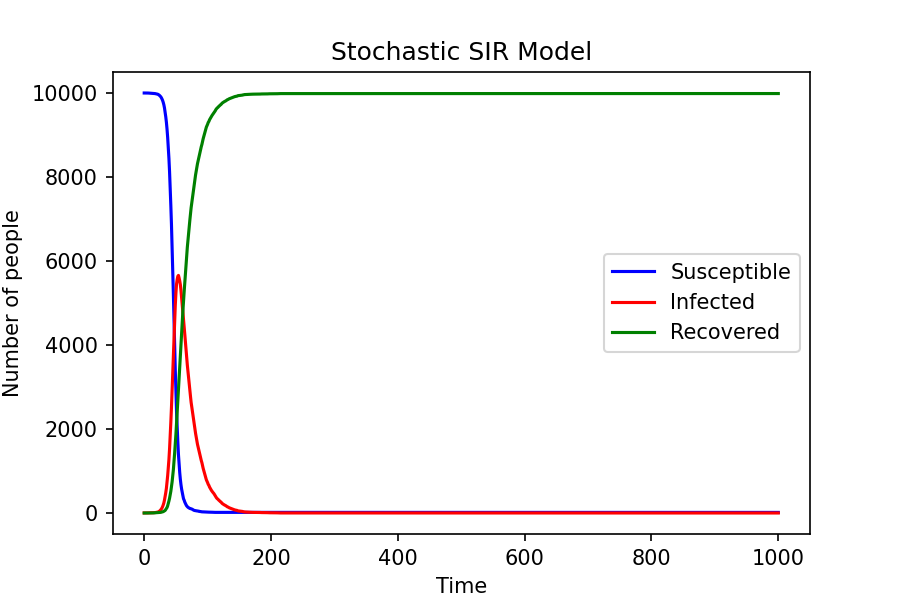
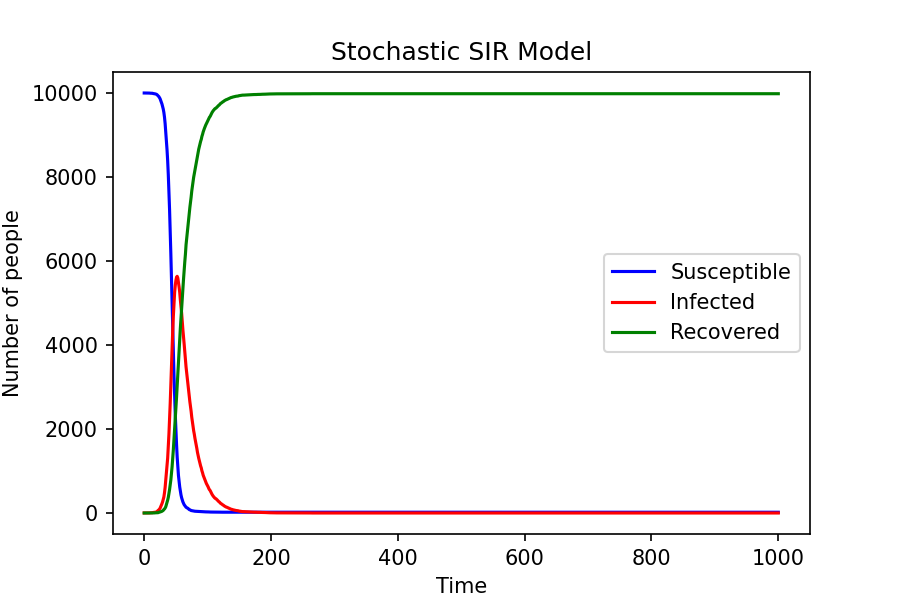
Delete mistaken blanks

diff --git a/Practical 9/SIR_vaccination.py b/Practical 9/SIR_vaccination.py
@@ -15,7 +15,7 @@ for r in vacc_rates:
     I = 1
     R = 0
     V = int(N*r)
-    S = N - V - 1
+    S = max(N - V - 1, 0)
 #record history
     I_history=[I]
 
@@ -39,15 +39,14 @@ for r in vacc_rates:
     
         I_history.append(I)
 
-#Draw the figure
-
-
+    #Draw the figure
     plt.plot(I_history, label=f'{int(r*100)}% vaccinated')
+
 plt.xlabel('Time')
 plt.ylabel('Infected people')
 plt.title('Effect of Vaccination')
 plt.legend()
 #Save the plot
-plt . savefig ("SIR_vaccination_plot.png", format="png")
+plt.savefig ("SIR_vaccination_plot.png", format="png")
 #Show the plot
 plt.show()

diff --git a/Practical 9/SIR.py b/Practical 9/SIR.py
@@ -37,6 +37,6 @@ plt.ylabel('Number of people')
 plt.title('Stochastic SIR Model')
 plt.legend()
 #Save the plot
-plt . savefig ("SIR_plot.png", format="png")
+plt.savefig ("SIR_plot.png", format="png")
 #Show the plot
 plt.show()
